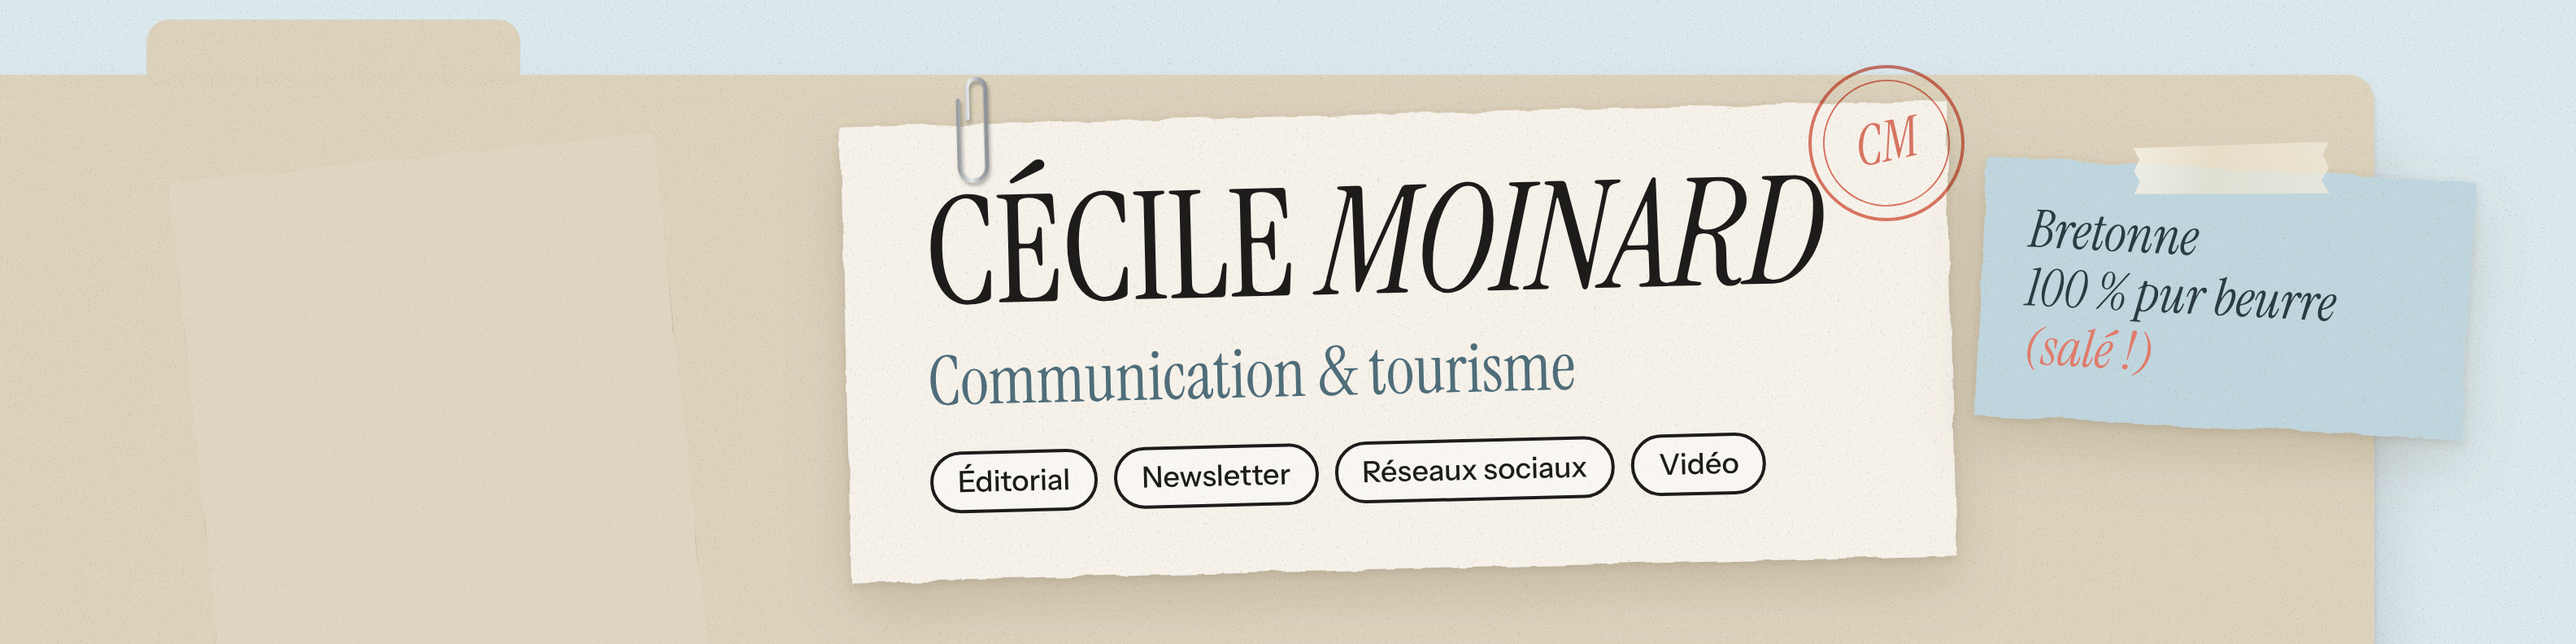
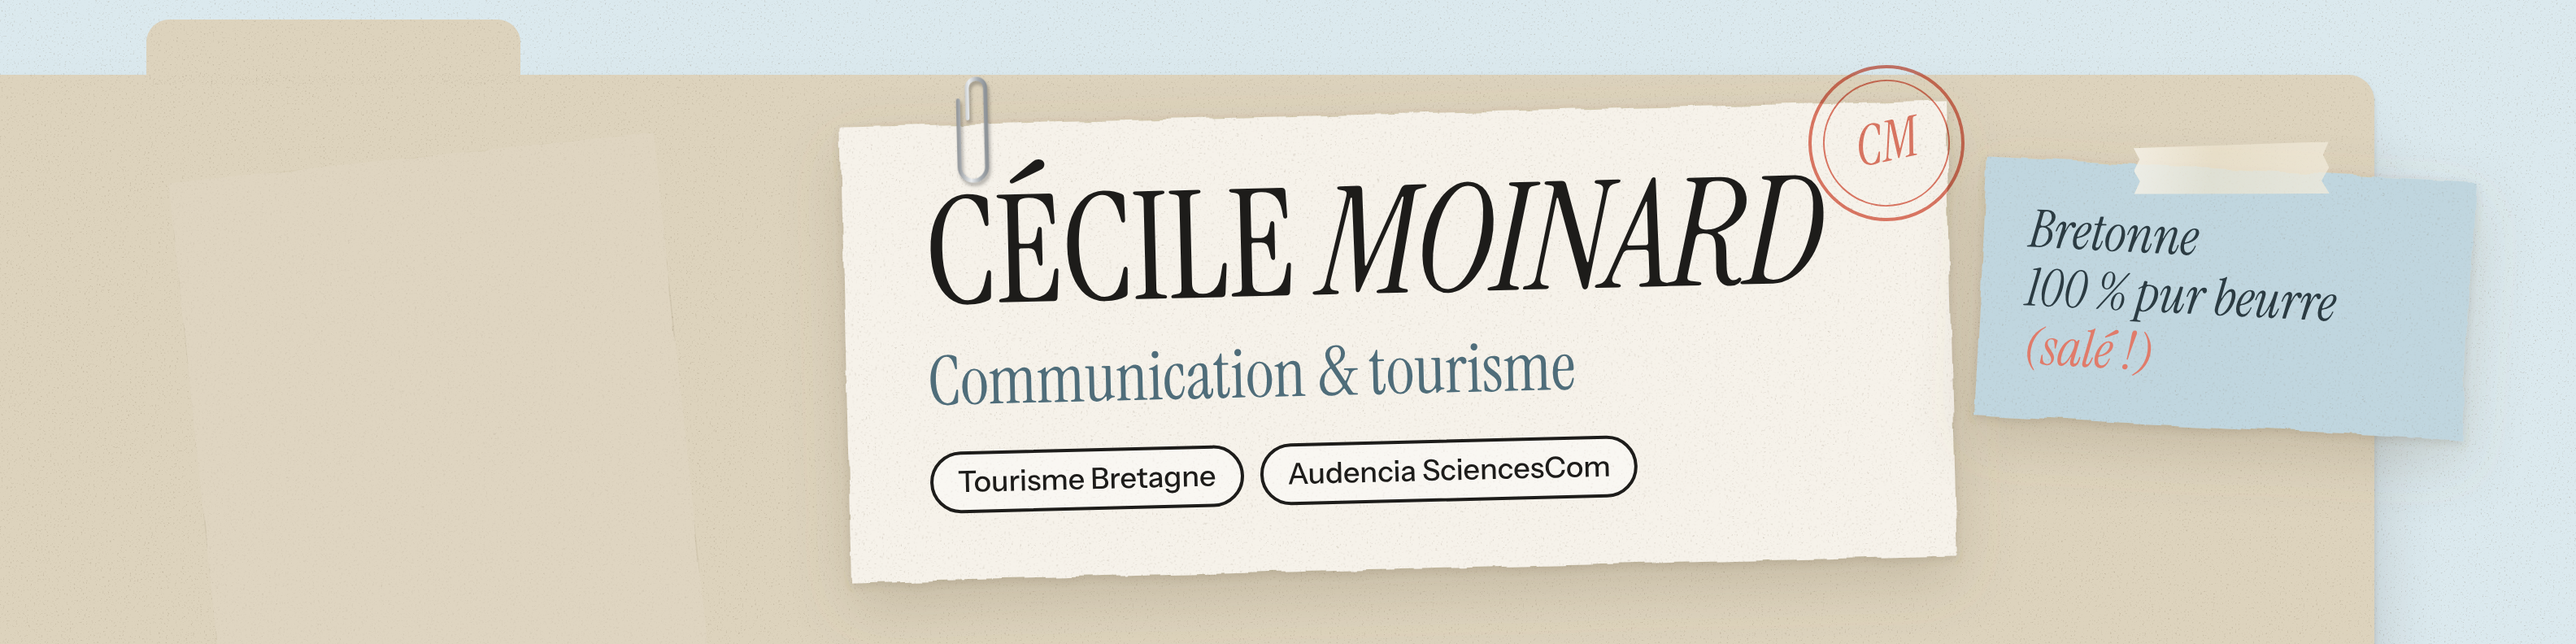
Bannière LinkedIn : étiquettes Tourisme Bretagne et Audencia SciencesCom
Claude-Session: https://claude.ai/code/session_01GLTHKFgKeXwWvvFJwYZPiH

Changed region(s): [[0.375, 0.6667, 0.6875, 0.7879]]

diff --git a/linkedin/banniere.html b/linkedin/banniere.html
@@ -106,7 +106,7 @@ body { width: 1584px; height: 396px; overflow: hidden; background: var(--desk) v
   <svg class="clip" style="left:70px;top:-36px"><use href="#clip"/></svg>
   <h1>Cécile <em>Moinard</em></h1>
   <p class="job">Communication &amp; tourisme</p>
-  <div class="tags"><span>Éditorial</span><span>Newsletter</span><span>Réseaux sociaux</span><span>Vidéo</span></div>
+  <div class="tags"><span>Tourisme Bretagne</span><span>Audencia SciencesCom</span></div>
 </div>
 
 <div class="sheet note perso">
